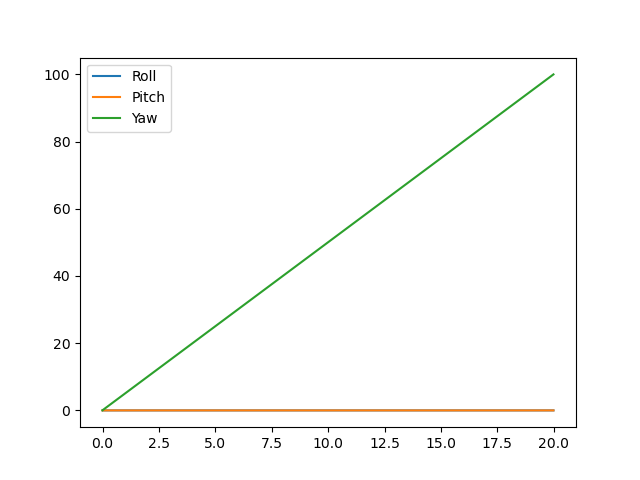
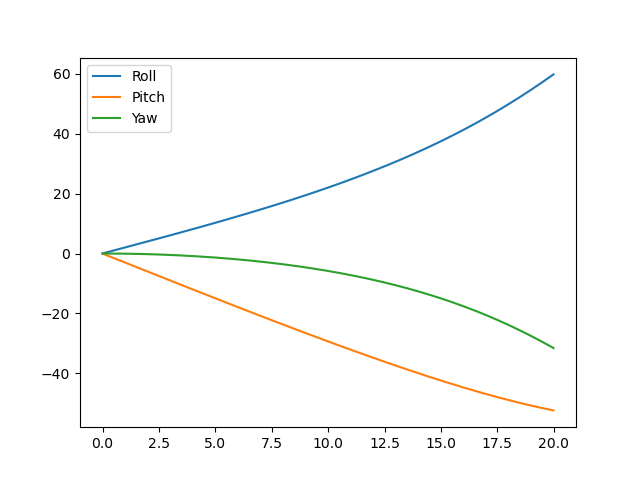
adjusted variables

diff --git a/pyAML/eulerkinematics.py b/pyAML/eulerkinematics.py
@@ -42,7 +42,7 @@ def eulerIntegration(X, Xdot, dt):
     return X + Xdot*dt
 
 attitude = degToRad([0,0,0])
-omega_body = degToRad([0,0,5])
+omega_body = degToRad([2,-3,0])
 
 dt = 0.01
 time=[]
